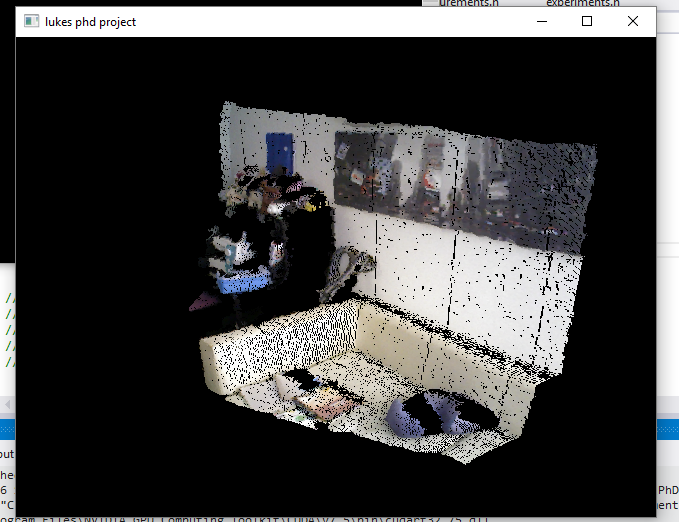
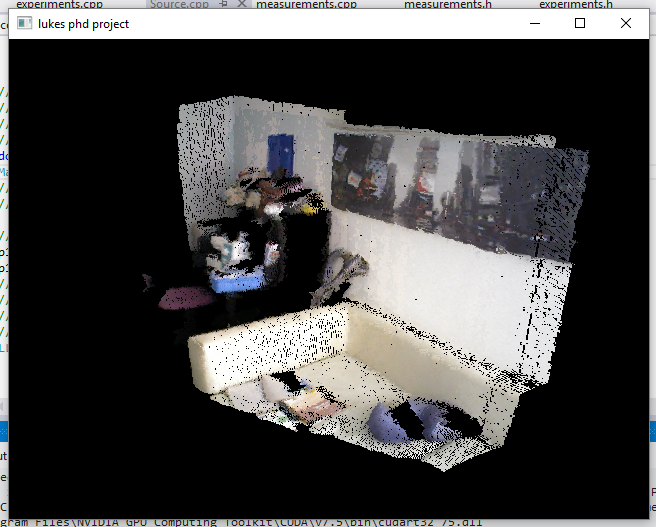
redoing the untransform image and adding noreg im

Changed region(s): [[0.2134, 0.1839, 0.9146, 0.8889], [0.0, 0.0, 1.0, 1.0]]

diff --git a/Source.cpp b/Source.cpp
@@ -64,18 +64,18 @@ int main(){
 
 	
 
-	VMat p1v(256, p1, 0.0f, true);
-	VMat p2v(256, p2, 0.0f, true);
-	Mat m1 = p1v.pca_correct_up();
-	Mat m2 = p2v.pca_correct_up();
+	//VMat p1v(256, p1, 0.0f, true);
+	//VMat p2v(256, p2, 0.0f, true);
+	//Mat m1 = p1v.pca_correct_up();
+	//Mat m2 = p2v.pca_correct_up();
 	double ss;
-	Mat m = ll_pc::pc_register_pca(p1, p2, ss, true, 256);
+	Mat m = ll_pc::pc_register(p1, p2, ss,true, 256);
 	//p1.transform_set(m);
 	//p2.transform_set(m2);
 
 	//Mat m = ll_pc::pc_register(p1, p2, ss, true, 256);
 	p1.transform_set(m);
-	//p1 += p2;
+	p1 += p2;
 	//p1 += p2;
 	//p1 = p1v.pixel3dset();
 	//p1.transform_set(xx);
